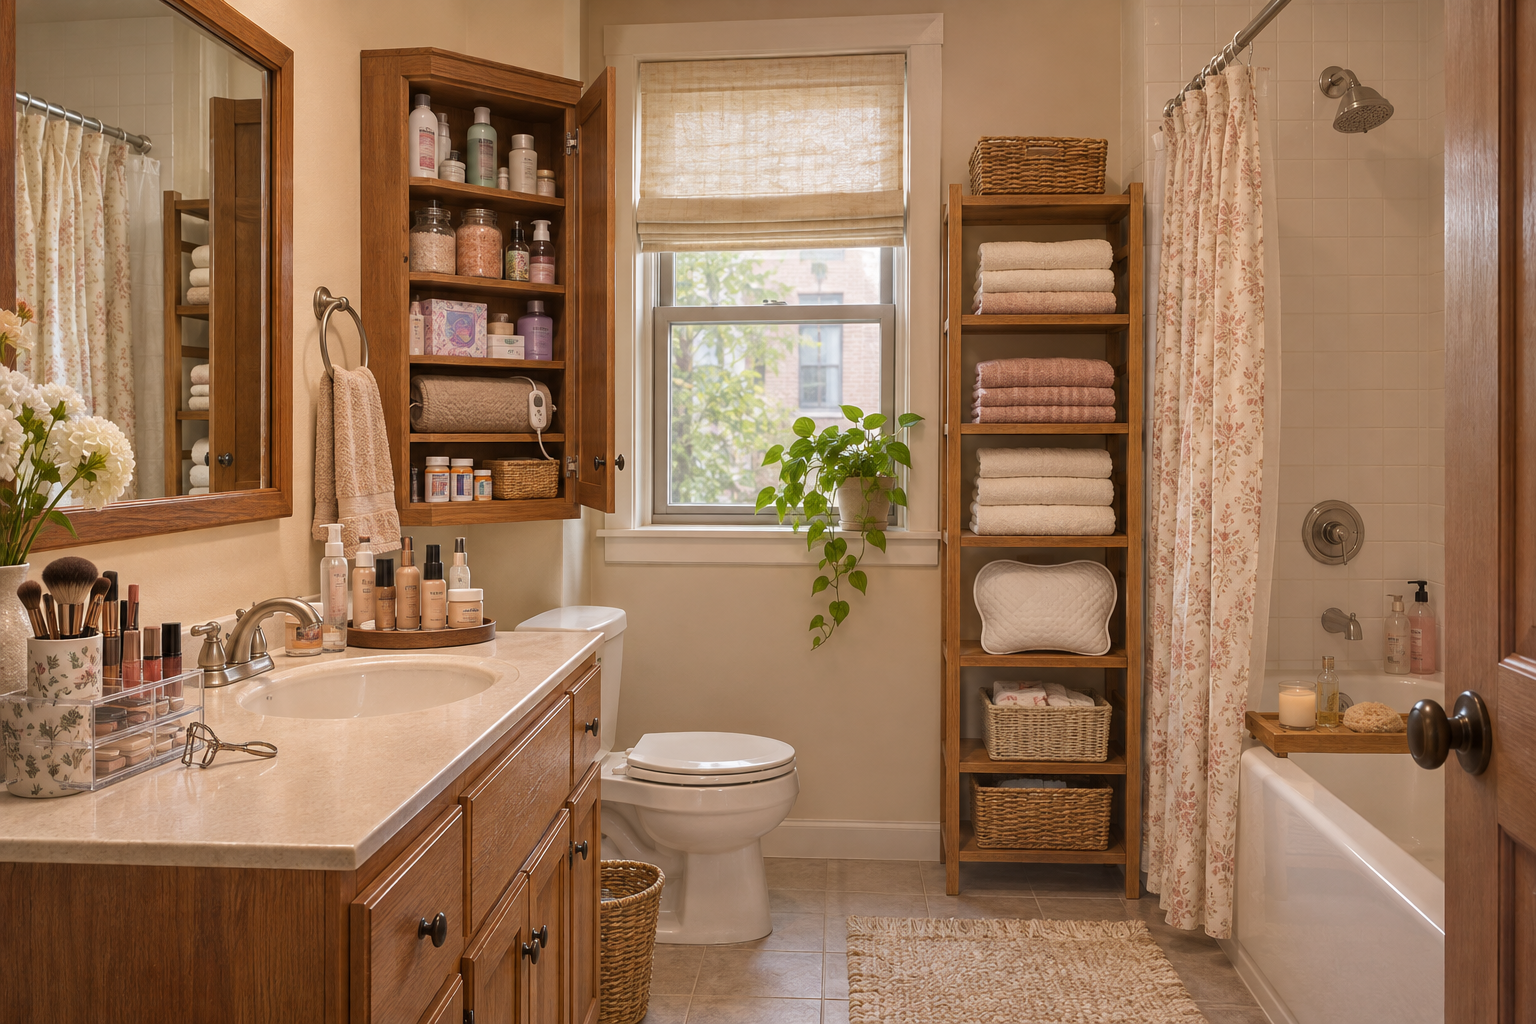
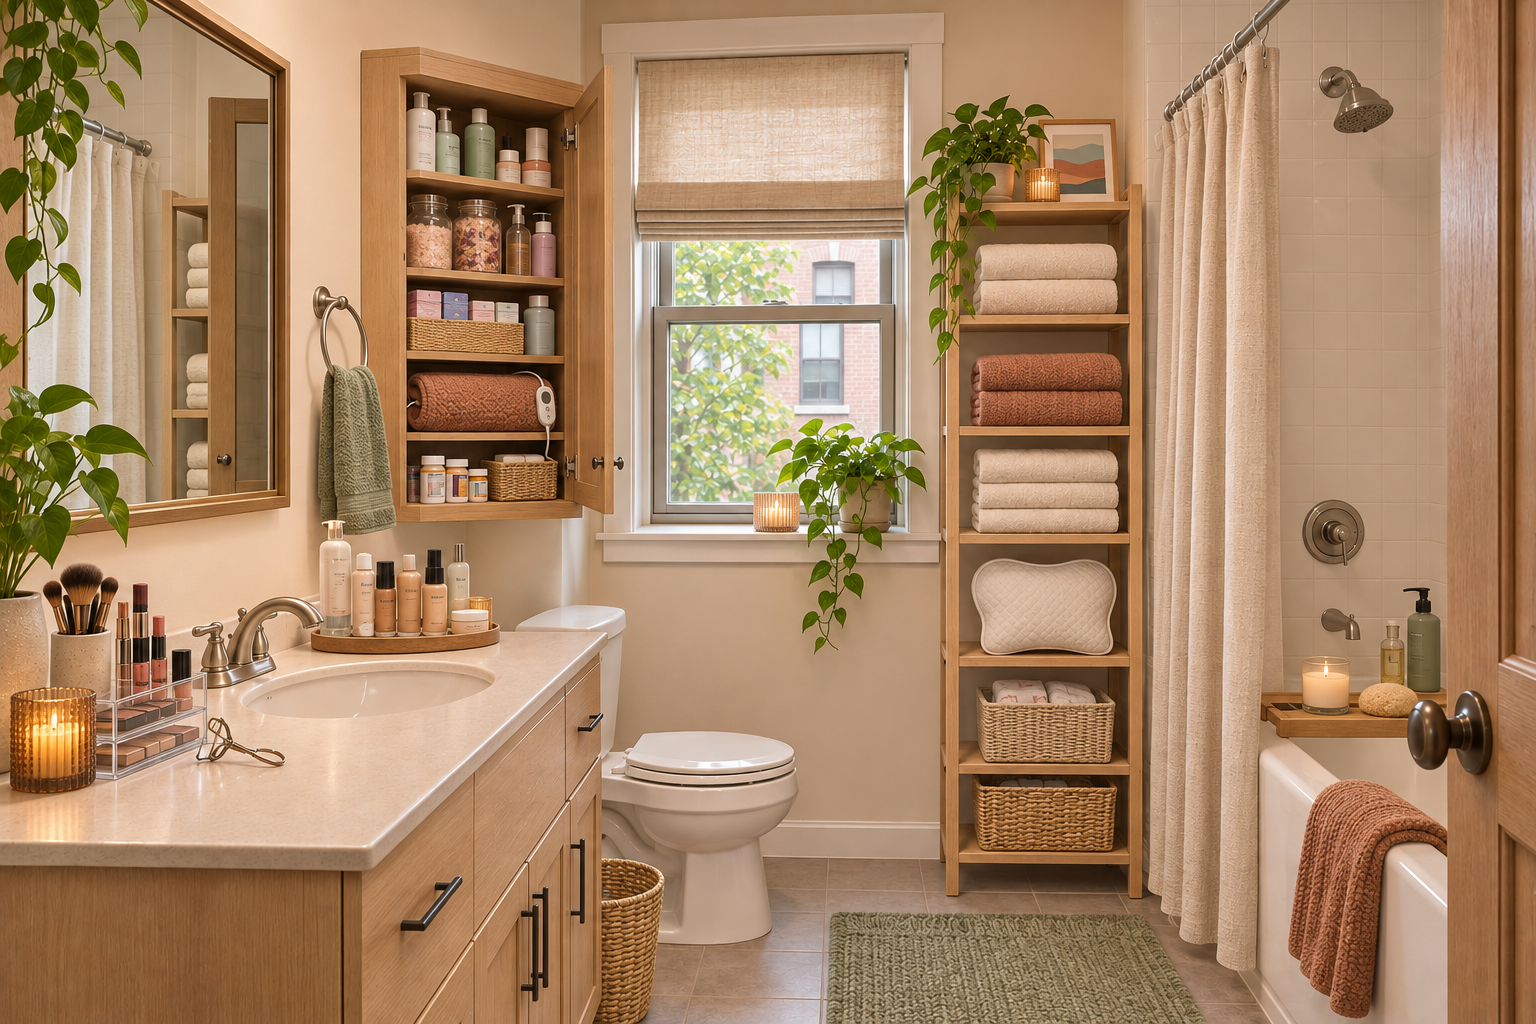
art: replace Erin room images with contemporary third-floor revisions

diff --git a/docs/BUILD-PROGRESS-AND-TEST-HANDOFF.md b/docs/BUILD-PROGRESS-AND-TEST-HANDOFF.md
@@ -1,3 +1,9 @@
+## Room-art refinement in progress — replacements, not duplicates
+
+Erin's six room images have been revised in place for a younger contemporary, comfortable adult style; third-floor views were specified. Original filenames remain and rejected files are replaced, with previous hashes retained only as metadata/history. Priya's six edits are processing (second-floor views, sparse salt lamps, varied soft lighting and quartz/citrine/topaz). Four utility/laundry cupboard views still need generation, including Richard's bot charging stand. Accepted Richard/Nadia files are unchanged. No gameplay code changed by this art checkpoint.
+
+Branch `rebuild/1.0-foundations`; parent `8c29811`. Live108 remains publicly verified. Exact next action: finish Priya edits, generate4utility views, verify31canonicalimages/no duplicates and accepted-file hashes, update gallery/manifest, commit/push both branches and verify deployed image bytes. Discord bridge discussed only; no Discord connection, bot or raw message import exists yet. Proposed bridge uses a read-only bot and private companion repository, with token kept in Actions secrets.
+
 ## v1.0.108 — published and publicly verified
 
 **[Play v1.0.108](https://uderiel.github.io/Epi-Center/rebuild/title-screen/?v=1.0.108)**. Tested runtime `662f1344ba8c0b5b292fc1b5e7ffa6e442cb4500` is on `rebuild/1.0-foundations` and `main`. Passed **1,266 automated cases across 74 suites**, **192 local and 192 public browser checks** (78 legacy, 38 cat, 27 Erin, 21 Nadia, 18 Richard, 10 corrections) and **52 deployed-file comparisons**. [Pages deployment succeeded](https://github.com/Uderiel/Epi-Center/actions/runs/44341634943). One initial public navigation hit the old five-second harness timeout; thirty-second navigation allowance and rerun passed. All requested checks actually ran. No remaining release-verification failure.

diff --git a/docs/CURRENT-STATUS.md b/docs/CURRENT-STATUS.md
@@ -1,3 +1,9 @@
+## Room-art refinement in progress — replacements, not duplicates
+
+Erin's six room images have been revised in place for a younger contemporary, comfortable adult style; third-floor views were specified. Original filenames remain and rejected files are replaced, with previous hashes retained only as metadata/history. Priya's six edits are processing (second-floor views, sparse salt lamps, varied soft lighting and quartz/citrine/topaz). Four utility/laundry cupboard views still need generation, including Richard's bot charging stand. Accepted Richard/Nadia files are unchanged. No gameplay code changed by this art checkpoint.
+
+Branch `rebuild/1.0-foundations`; parent `8c29811`. Live108 remains publicly verified. Exact next action: finish Priya edits, generate4utility views, verify31canonicalimages/no duplicates and accepted-file hashes, update gallery/manifest, commit/push both branches and verify deployed image bytes. Discord bridge discussed only; no Discord connection, bot or raw message import exists yet. Proposed bridge uses a read-only bot and private companion repository, with token kept in Actions secrets.
+
 ## v1.0.108 — published and publicly verified
 
 **[Play v1.0.108](https://uderiel.github.io/Epi-Center/rebuild/title-screen/?v=1.0.108)**. Tested runtime `662f1344ba8c0b5b292fc1b5e7ffa6e442cb4500` is on `rebuild/1.0-foundations` and `main`. Passed **1,266 automated cases across 74 suites**, **192 local and 192 public browser checks** (78 legacy, 38 cat, 27 Erin, 21 Nadia, 18 Richard, 10 corrections) and **52 deployed-file comparisons**. [Pages deployment succeeded](https://github.com/Uderiel/Epi-Center/actions/runs/44341634943). One initial public navigation hit the old five-second harness timeout; thirty-second navigation allowance and rerun passed. All requested checks actually ran. No remaining release-verification failure.
